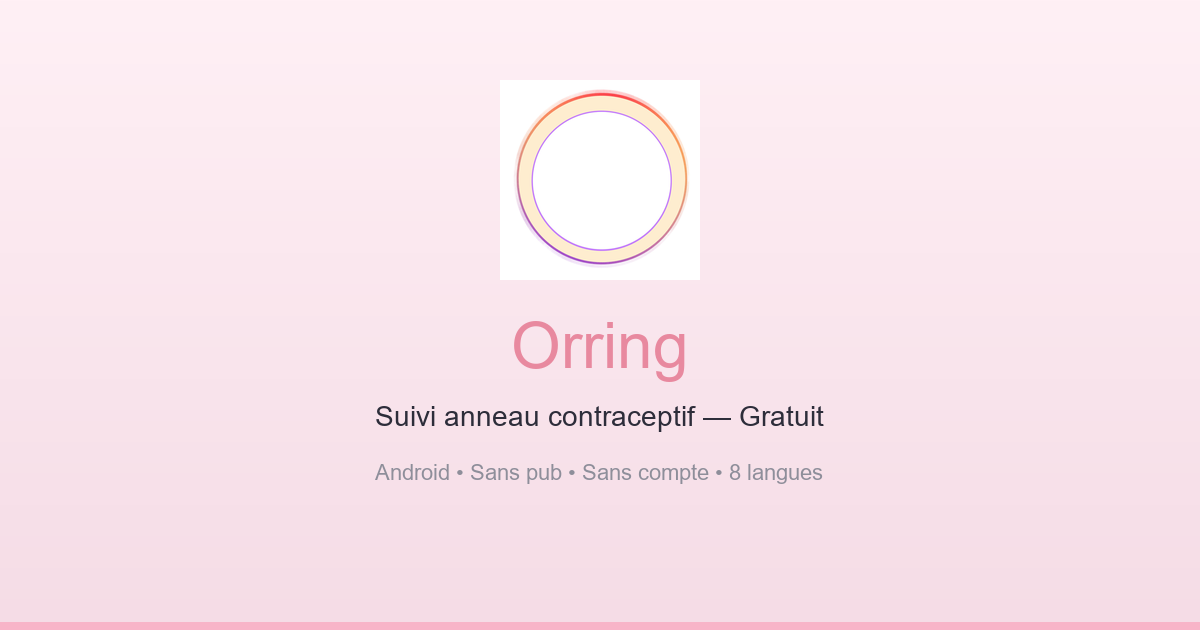
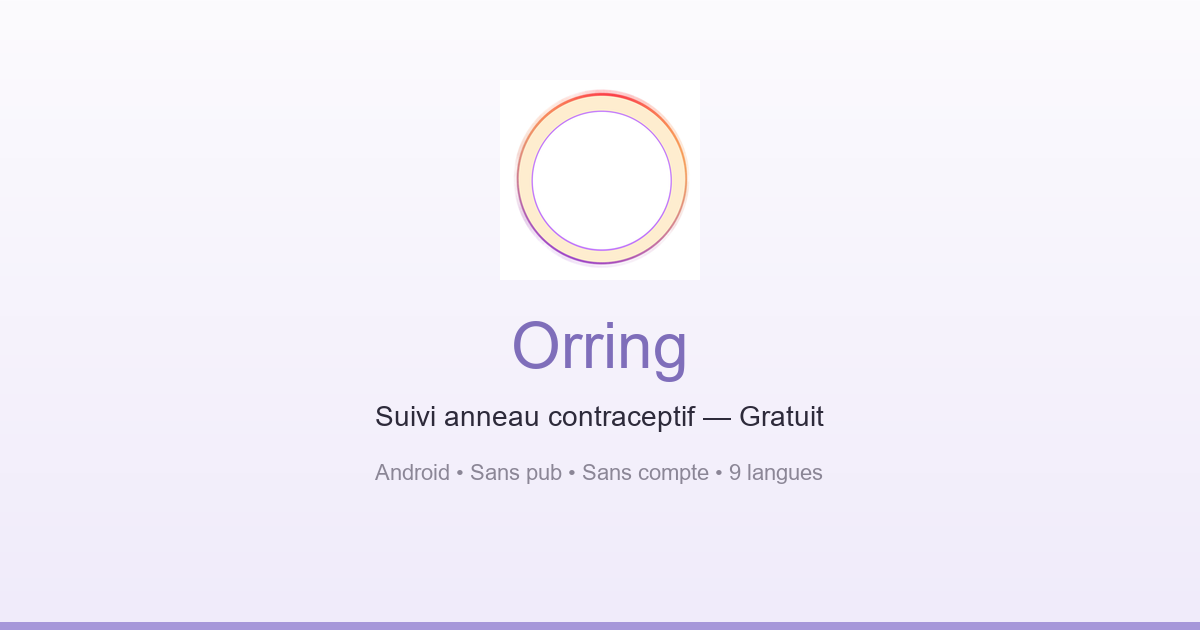
Switch palette from pink to warm periwinkle/lavender

Changed region(s): [[0.0, 0.9651, 1.0, 1.0], [0.4317, 0.5127, 0.5858, 0.6032]]

diff --git a/src/App.css b/src/App.css
@@ -1,15 +1,15 @@
 @import url('https://fonts.googleapis.com/css2?family=Inter:wght@300;400;500;600;700;800;900&display=swap');
 
 :root {
-  --pink: #F8B4C8;
-  --pink-dark: #E8899F;
-  --pink-light: #FCDCE6;
-  --pink-soft: #FFF0F5;
-  --bg: #FFFBFC;
-  --text: #2D2D3A;
-  --text-sec: #8E8E9A;
+  --pink: #A697D9;
+  --pink-dark: #7F6EBA;
+  --pink-light: #D9D0EC;
+  --pink-soft: #F4F0FA;
+  --bg: #FCFBFE;
+  --text: #2D2A3A;
+  --text-sec: #8B8696;
   --surface: #FFFFFF;
-  --border: #F0E8EC;
+  --border: #ECE7F1;
 }
 
 * { margin: 0; padding: 0; box-sizing: border-box; }
@@ -66,7 +66,7 @@ body {
 
 .hero-ring {
   margin-bottom: 1.5rem;
-  filter: drop-shadow(0 4px 20px rgba(248,180,200,0.4));
+  filter: drop-shadow(0 4px 20px rgba(166,151,217,0.4));
 }
 
 .hero-logo {
@@ -115,7 +115,7 @@ body {
   font-weight: 700;
   border-radius: 60px;
   text-decoration: none;
-  box-shadow: 0 4px 20px rgba(248,180,200,0.3);
+  box-shadow: 0 4px 20px rgba(166,151,217,0.3);
   transition: box-shadow 0.3s ease;
 }
 
@@ -240,7 +240,7 @@ body {
   align-items: center;
   justify-content: center;
   margin: 0 auto 1rem;
-  box-shadow: 0 4px 16px rgba(248,180,200,0.3);
+  box-shadow: 0 4px 16px rgba(166,151,217,0.3);
 }
 
 .step h3 {
@@ -272,7 +272,7 @@ body {
   padding: 3.5rem 3rem;
   max-width: 550px;
   width: 100%;
-  box-shadow: 0 8px 40px rgba(248,180,200,0.1);
+  box-shadow: 0 8px 40px rgba(166,151,217,0.1);
 }
 
 
@@ -325,7 +325,7 @@ body {
   border-radius: 40px;
   font-size: 0.85rem;
   color: var(--text-sec);
-  box-shadow: 0 2px 10px rgba(248,180,200,0.15);
+  box-shadow: 0 2px 10px rgba(166,151,217,0.15);
 }
 
 .counter-icon {
@@ -409,13 +409,13 @@ body {
   color: var(--text);
   cursor: pointer;
   font-family: inherit;
-  box-shadow: 0 2px 12px rgba(248,180,200,0.12);
+  box-shadow: 0 2px 12px rgba(166,151,217,0.12);
   transition: border-color 0.2s, box-shadow 0.2s;
 }
 
 .like-btn:hover:not(.liked) {
   border-color: var(--pink);
-  box-shadow: 0 4px 20px rgba(248,180,200,0.25);
+  box-shadow: 0 4px 20px rgba(166,151,217,0.25);
 }
 
 .like-btn.liked {
@@ -568,7 +568,7 @@ body {
   border: 1px solid var(--border);
   border-radius: 24px;
   padding: 2rem;
-  box-shadow: 0 4px 24px rgba(248,180,200,0.1);
+  box-shadow: 0 4px 24px rgba(166,151,217,0.1);
 }
 
 .feedback-input,
@@ -595,7 +595,7 @@ body {
 .feedback-textarea:focus {
   outline: none;
   border-color: var(--pink);
-  box-shadow: 0 0 0 3px rgba(248,180,200,0.15);
+  box-shadow: 0 0 0 3px rgba(166,151,217,0.15);
 }
 
 .feedback-btn {
@@ -608,7 +608,7 @@ body {
   border: none;
   border-radius: 40px;
   cursor: pointer;
-  box-shadow: 0 4px 16px rgba(248,180,200,0.3);
+  box-shadow: 0 4px 16px rgba(166,151,217,0.3);
   font-family: inherit;
   transition: box-shadow 0.2s;
 }
@@ -751,7 +751,7 @@ body {
 
 .lang-btn:hover {
   border-color: var(--pink);
-  box-shadow: 0 4px 20px rgba(248,180,200,0.2);
+  box-shadow: 0 4px 20px rgba(166,151,217,0.2);
 }
 
 .lang-arrow {

diff --git a/src/App.tsx b/src/App.tsx
@@ -889,7 +889,7 @@ function App() {
 
         <motion.a href={"https://github.com/Alex-Lou/OrringLanding/releases/download/v2.0.0/Orring.apk"} download onClick={handleDownload} className="download-btn"
           initial={{ opacity: 0, y: 20 }} animate={{ opacity: 1, y: 0 }} transition={{ delay: 0.9, duration: 0.6 }}
-          whileHover={{ scale: 1.05, boxShadow: '0 8px 40px rgba(248,180,200,0.4)' }}
+          whileHover={{ scale: 1.05, boxShadow: '0 8px 40px rgba(166,151,217,0.4)' }}
           whileTap={{ scale: 0.97 }}
         >
           <span className="download-icon">📲</span>
@@ -923,7 +923,7 @@ function App() {
             { icon: '🆓', tk: 'f6' },
           ]).map((f, i) => (
             <motion.div key={i} className="feature-card" variants={fadeUp} initial="hidden" whileInView="visible" viewport={{ once: true, amount: 0.2 }} custom={i}
-              whileHover={{ y: -6, boxShadow: '0 12px 40px rgba(248,180,200,0.15)' }}
+              whileHover={{ y: -6, boxShadow: '0 12px 40px rgba(166,151,217,0.15)' }}
             >
               <span className="feature-icon">{f.icon}</span>
               <h3>{t(`${f.tk}t`)}</h3>

diff --git a/index.html b/index.html
@@ -37,7 +37,7 @@
     <meta name="twitter:image" content="https://alex-lou.github.io/OrringLanding/og-image.png" />
 
     <!-- PWA / Mobile -->
-    <meta name="theme-color" content="#F8B4C8" />
+    <meta name="theme-color" content="#A697D9" />
     <meta name="apple-mobile-web-app-title" content="Orring" />
     <meta name="application-name" content="Orring" />
     <link rel="icon" type="image/png" href="/OrringLanding/favicon.png" />
